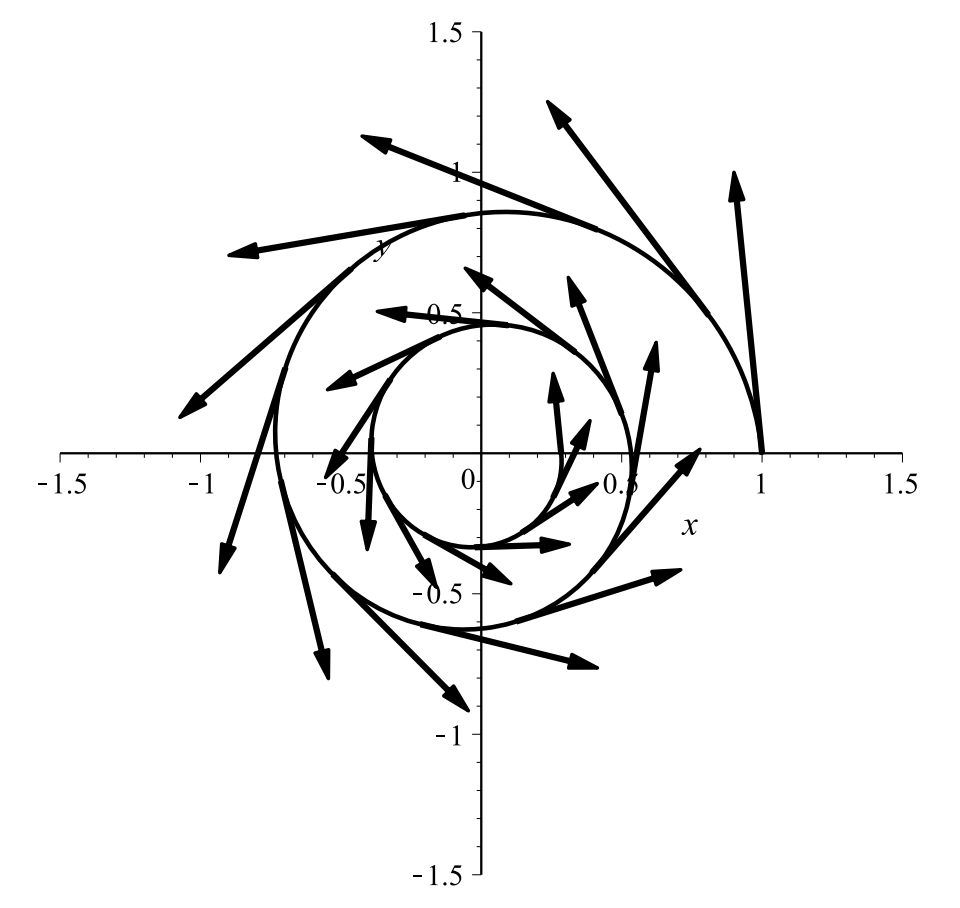
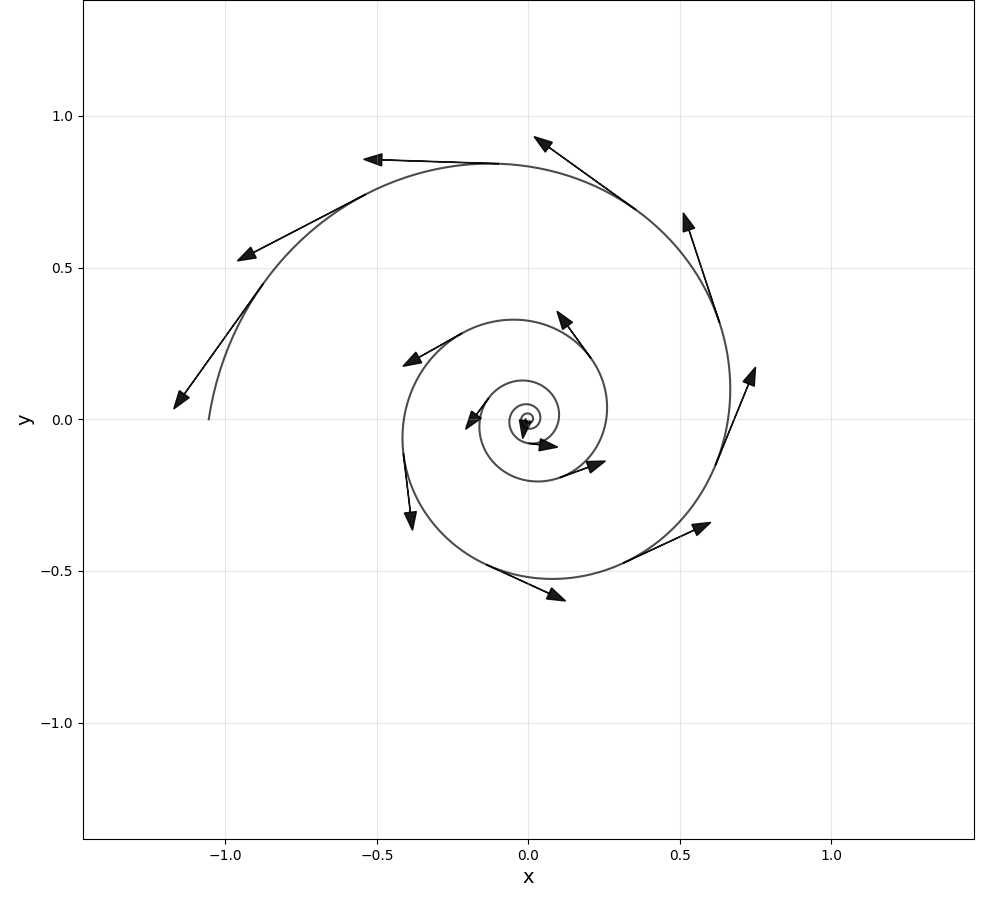
new tangent vectors image

diff --git a/spiral_plot.py b/spiral_plot.py
@@ -1,0 +1,116 @@
+import numpy as np
+import matplotlib.pyplot as plt
+
+# Create a grid of points for vector field
+x = np.linspace(-1.5, 1.5, 12)
+y = np.linspace(-1.5, 1.5, 12)
+X, Y = np.meshgrid(x, y)
+
+# Define parameters for logarithmic spiral
+# r = a * e^(b*theta)
+a = 0.1  # scaling factor
+b = 0.15  # spiral tightness (positive = outward, negative = inward)
+
+# Create spiral curves
+theta_spiral = np.linspace(-4 * np.pi, 4 * np.pi, 1000)
+r_spiral = a * np.exp(b * theta_spiral)
+
+# Convert to Cartesian coordinates for spiral curves
+x_spiral = r_spiral * np.cos(theta_spiral)
+y_spiral = r_spiral * np.sin(theta_spiral)
+
+# Filter spirals to stay within plot bounds
+mask = (np.abs(x_spiral) <= 1.5) & (np.abs(y_spiral) <= 1.5)
+x_spiral = x_spiral[mask]
+y_spiral = y_spiral[mask]
+
+# Create multiple spiral curves with vectors on them
+plt.figure(figsize=(10, 10))
+
+# Plot a single spiral curve with vectors
+start_angle = 0  # starting angle for the single curve
+theta_curve = np.linspace(-5 * np.pi, 5 * np.pi, 800) + start_angle
+r_curve = a * np.exp(b * theta_curve)
+x_curve = r_curve * np.cos(theta_curve)
+y_curve = r_curve * np.sin(theta_curve)
+
+# Filter to plot bounds
+mask_curve = (np.abs(x_curve) <= 1.5) & (np.abs(y_curve) <= 1.5)
+x_curve = x_curve[mask_curve]
+y_curve = y_curve[mask_curve]
+theta_filtered = theta_curve[mask_curve]
+
+if len(x_curve) > 0:
+    # Plot the spiral curve
+    plt.plot(x_curve, y_curve, "k-", linewidth=1.5, alpha=0.7)
+
+    # Calculate cumulative arc length along the curve
+    dx = np.diff(x_curve)
+    dy = np.diff(y_curve)
+    arc_lengths = np.sqrt(dx**2 + dy**2)
+    cumulative_length = np.concatenate([[0], np.cumsum(arc_lengths)])
+
+    # Place vectors at even arc-length intervals
+    total_length = cumulative_length[-1]
+    target_spacing = total_length / 15  # about 15 vectors per curve
+
+    current_length = 0
+    while current_length < total_length:
+        # Find the index closest to current target length
+        idx = np.argmin(np.abs(cumulative_length - current_length))
+
+        if idx < len(x_curve):
+            x_pos = x_curve[idx]
+            y_pos = y_curve[idx]
+            theta_pos = theta_filtered[idx]
+
+            # Calculate tangent vector at this point
+            dxdt = b * x_pos - y_pos
+            dydt = b * y_pos + x_pos
+
+            # Speed is the magnitude of the velocity vector
+            speed = np.sqrt(dxdt**2 + dydt**2)
+
+            # Scale vector length proportional to speed
+            scale_factor = 0.45  # adjust this to make vectors visible (0.15 * 3)
+            u_scaled = dxdt * scale_factor
+            v_scaled = dydt * scale_factor
+
+            # Plot the vector
+            plt.arrow(
+                x_pos,
+                y_pos,
+                u_scaled,
+                v_scaled,
+                head_width=0.04,
+                head_length=0.06,
+                fc="black",
+                ec="black",
+                alpha=0.9,
+            )
+
+        current_length += target_spacing
+
+# Add grid lines
+plt.grid(True, alpha=0.3)
+
+# Set axis properties
+plt.xlim(-1.5, 1.5)
+plt.ylim(-1.5, 1.5)
+plt.xlabel("x", fontsize=14)
+plt.ylabel("y", fontsize=14)
+
+# Make axes equal and add ticks
+plt.axis("equal")
+plt.xticks(np.arange(-1.5, 2, 0.5))
+plt.yticks(np.arange(-1.5, 2, 0.5))
+
+# Add title
+plt.title("Spiral Vector Field", fontsize=16)
+
+# Show the plot
+plt.tight_layout()
+plt.show()
+
+# Optionally save the plot
+# plt.savefig('spiral_vector_field.png', dpi=300, bbox_inches='tight')
